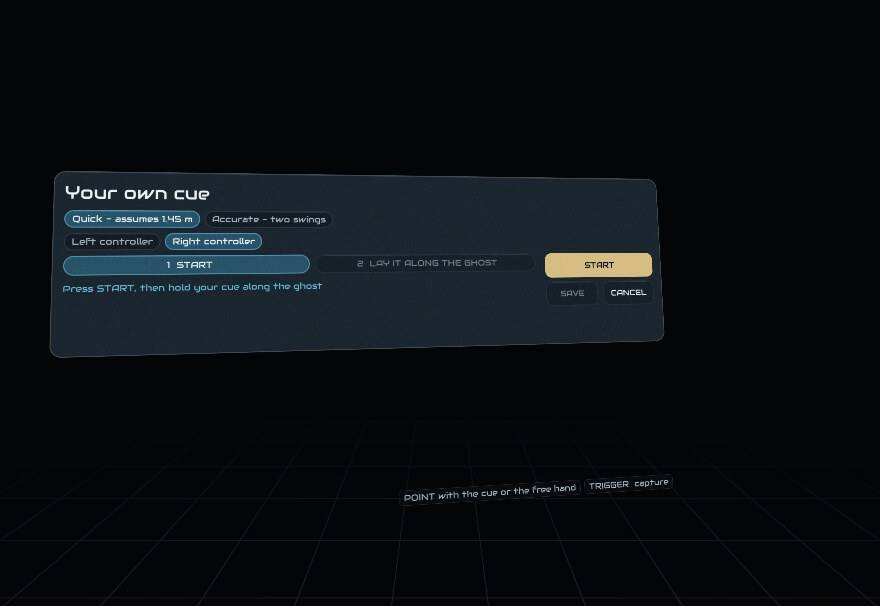
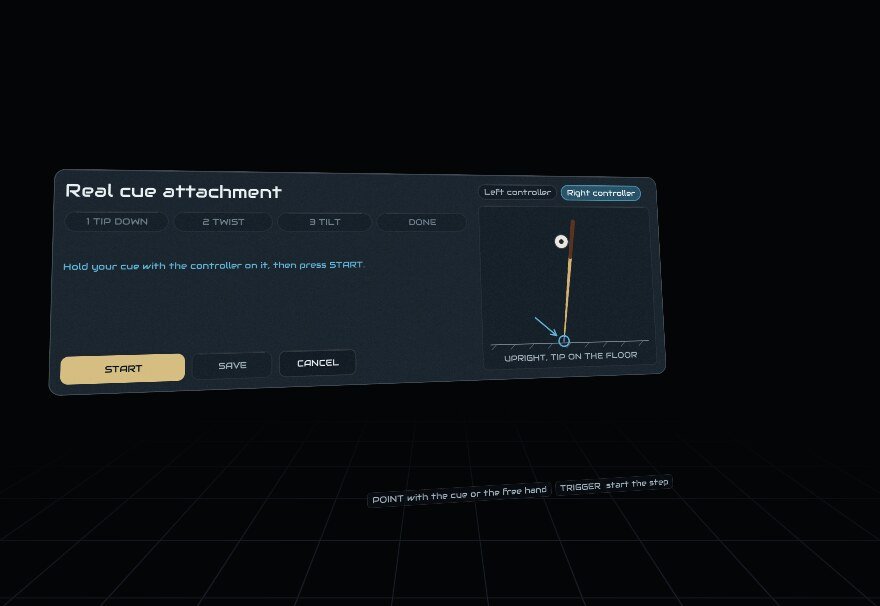
CueVR guide 6.9: Real cue attachment rewritten for the three floor steps (tip down, twist, tilt), with the step cards, dot diagrams, refusals, saved calibrations and the session-only side-trigger fine-tune

diff --git a/docs/cuevr-guide.html b/docs/cuevr-guide.html
@@ -300,8 +300,8 @@
       <a href="#comfort">Comfort</a>.</td></tr>
     <tr><td><b>A match you left</b></td><td><b>CONTINUE MATCH</b> on Home, or <b>SAVED
       MATCHES</b> beside it for the rest. See <a href="#saving">Saving and resuming</a>.</td></tr>
-    <tr><td><b>Play with a real cue or a pen</b></td><td><b>Settings &rarr; Cue feel &rarr;
-      CALIBRATE A REAL CUE</b>, and <b>Settings &rarr; Controls &rarr; CUE</b> to switch between
+    <tr><td><b>Play with a real cue or a pen</b></td><td><b>Settings &rarr; Controls &rarr;
+      CALIBRATE A CUE</b>, and <b>Settings &rarr; Controls &rarr; CUE</b> to switch between
       <b>CONTROLLERS</b> and <b>REAL CUE</b>. See <a href="#realcue">Real cue
       attachment</a>.</td></tr>
     <tr><td><b>Cue deflection</b></td><td><b>Settings &rarr; Cue feel &rarr; CUE DEFLECTION</b>,
@@ -786,126 +786,175 @@
   <ol>
     <li><b>Fix the controller on tight.</b> If it can wobble or twist on the cue, the drawn cue
     wobbles too. If you move it later, you will need to set the cue up again.</li>
-    <li><b>Stand where you play,</b> with your cue in your hands.</li>
-    <li><b>Set the table height first:</b> <b>Environment &rarr; Table</b>, or <b>Table</b> on the
-    pause menu. The set-up is done at that height.</li>
-  </ol>
-
-  <h3>Open the set-up screen</h3>
-  <p>Go to <b>Settings &rarr; Cue feel</b> and press <b>CALIBRATE A REAL CUE</b>, at the bottom of
-  the list. The table disappears while you are on this screen, so nothing is in the way, and
-  you see your own room even if you play in the dark room, the arena or one of the other rooms,
-  so you can see the cue
-  you are lining up. Your surroundings come back when you leave the screen.</p>
-
-  <figure>
-    <img src="img/cuevr/rca-setup.jpg" alt="The cue set-up screen with a grey cue floating in front of the player">
-    <figcaption>The set-up screen. The top row of buttons chooses the method and the second row
-    the controller. Press <b>START</b> and a grey cue appears in front of you, further out than
-    the panel: that is the one you line your own cue up against.</figcaption>
-  </figure>
-
-  <ol>
-    <li><b>Say which controller is on your cue.</b> On the second row, press <b>Left
-    controller</b> or <b>Right controller</b>. Do this first: everything else depends on it.</li>
-    <li><b>Pick a method</b> on the top row:
-      <ul>
-        <li><b>Quick - assumes 1.45 m</b> takes about ten seconds. Use it for a normal full-length
-        cue, about 57 inches (1.45 m) long.</li>
-        <li><b>Accurate - two swings</b> takes about a minute. It measures your cue, so use it if
-        your cue is shorter or longer than that, or if Quick leaves the tip in the wrong
-        place.</li>
-      </ul></li>
-    <li><b>Press START.</b></li>
-  </ol>
-
-  <h3>Quick</h3>
-  <ol>
-    <li>A grey cue floats in front of you. If it is too high or too low to hold your cue against
-    comfortably, push either thumbstick up or down to move it.</li>
-    <li>Hold your real cue along the grey one: your tip on its tip, your butt on its butt. Get it
-    as close as you can by eye.</li>
-    <li>Pull the trigger, the one under your first finger, on either controller.</li>
-    <li>Press <b>SAVE</b>. Your cue is now switched on.</li>
-  </ol>
-  <p>If the tip looks a little out afterwards, do not start again. Use <a href="#finetune">the
-  fine-tune</a> below.</p>
-
-  <h3>Accurate</h3>
-  <p>This way you do not line anything up by eye. You rest one end of the cue on something that
-  does not move, and swing the other end around it. The end that is resting stays still while the
-  controller moves round it, so the game can tell exactly where that end is. It does this for the
-  tip and then for the butt, which also tells it how long your cue is.</p>
-
-  <div class="grid g2">
-    <figure>
-      <svg viewBox="0 0 320 200" width="100%" role="img" aria-label="The tip resting on a table while the butt swings round it">
-        <line x1="16" y1="172" x2="304" y2="172" style="stroke:var(--dim);stroke-width:2"/>
-        <text x="300" y="190" text-anchor="end" style="fill:var(--dim);font-size:11px">a table, a chair seat, the floor</text>
-        <line x1="80" y1="170" x2="252" y2="90" style="stroke:#c9a36a;stroke-width:5;stroke-linecap:round;opacity:.35"/>
-        <line x1="80" y1="170" x2="189" y2="14" style="stroke:#c9a36a;stroke-width:5;stroke-linecap:round;opacity:.35"/>
-        <line x1="80" y1="170" x2="225" y2="48" style="stroke:#c9a36a;stroke-width:6;stroke-linecap:round"/>
-        <rect x="191" y="70" width="22" height="12" rx="3" transform="rotate(-40 202 76)" style="fill:#3a4a39;stroke:var(--ink);stroke-width:1"/>
-        <ellipse cx="225" cy="48" rx="44" ry="15" transform="rotate(-50 225 48)" style="fill:none;stroke:var(--gold);stroke-width:1.5;stroke-dasharray:4 4"/>
-        <circle cx="80" cy="170" r="5" style="fill:var(--gold)"/>
-        <text x="72" y="160" text-anchor="end" style="fill:var(--ink);font-size:12px">tip stays still</text>
-        <text x="274" y="26" style="fill:var(--gold);font-size:12px">swing</text>
-        <text x="274" y="40" style="fill:var(--gold);font-size:12px">the butt</text>
-        <text x="228" y="112" style="fill:var(--dim);font-size:11px">controller</text>
-      </svg>
-      <figcaption><span class="cap-t">STEP ONE</span> &mdash; the tip rests on something firm and
-      stays there. The butt swings round it: left and right, and up and down.</figcaption>
-    </figure>
-    <figure>
-      <svg viewBox="0 0 320 200" width="100%" role="img" aria-label="The butt resting on a table while the tip swings round it">
-        <line x1="16" y1="172" x2="304" y2="172" style="stroke:var(--dim);stroke-width:2"/>
-        <line x1="240" y1="170" x2="68" y2="90" style="stroke:#c9a36a;stroke-width:5;stroke-linecap:round;opacity:.35"/>
-        <line x1="240" y1="170" x2="131" y2="14" style="stroke:#c9a36a;stroke-width:5;stroke-linecap:round;opacity:.35"/>
-        <line x1="240" y1="170" x2="95" y2="48" style="stroke:#c9a36a;stroke-width:6;stroke-linecap:round"/>
-        <rect x="200" y="126" width="22" height="12" rx="3" transform="rotate(40 211 132)" style="fill:#3a4a39;stroke:var(--ink);stroke-width:1"/>
-        <ellipse cx="95" cy="48" rx="44" ry="15" transform="rotate(50 95 48)" style="fill:none;stroke:var(--gold);stroke-width:1.5;stroke-dasharray:4 4"/>
-        <circle cx="240" cy="170" r="5" style="fill:var(--gold)"/>
-        <text x="248" y="160" style="fill:var(--ink);font-size:12px">butt stays still</text>
-        <text x="16" y="26" style="fill:var(--gold);font-size:12px">swing</text>
-        <text x="16" y="40" style="fill:var(--gold);font-size:12px">the tip</text>
-        <text x="236" y="120" style="fill:var(--dim);font-size:11px">controller</text>
-      </svg>
-      <figcaption><span class="cap-t">STEP TWO</span> &mdash; turn the cue round. The butt rests
-      and stays there; the tip swings round it in the same way.</figcaption>
-    </figure>
-  </div>
-
-  <ol>
-    <li>Press <b>START</b>. The screen says <b>Tip on something solid, then pull the
-    trigger</b>.</li>
-    <li>Rest the tip on something firm that will not slide: a table top, the seat of a chair, the
-    floor. Hold the butt the way you hold it when you play, not twisted round in your hand: this
-    is how the game learns which way up your cue is. Then pull the trigger. Nothing is measured
-    until you do, so take your time getting settled.</li>
-    <li>Keep the tip exactly where it is, and slowly swing the butt round it: left and right, and up
-    and down as well, as if you were stirring a big pot with the butt. Two bars on the screen,
-    <b>ACROSS</b> and <b>UP AND DOWN</b>, fill up as you go. Keep going until both are full.</li>
-    <li>A small marker shows where the game thinks your tip is. If it sits on your tip and stays
-    there while you swing, it is right. The screen says <b>Tip found - trigger to go on</b>. Pull
-    the trigger.</li>
-    <li>Now turn the cue round. Rest the <b>butt</b> on something firm, pull the trigger, and swing
-    the tip round it in the same way until both bars are full.</li>
-    <li>The screen says <b>Measured - trigger to finish</b>. Pull the trigger. It then shows the
-    length it measured, for example <b>1.45 m of cue</b>. If that is about the length of your cue,
-    it worked. If it is clearly wrong, 0.4 m say, the resting end moved: press <b>START AGAIN</b>.</li>
-    <li>Press <b>SAVE</b>. Your cue is now switched on.</li>
+    <li><b>Find a clear spot of floor</b> in front of you, with room to tilt the cue about a
+    foot either way. A rug or a mat stops the tip sliding.</li>
   </ol>
 
   <div class="note">
-    <b>Keep the resting end still.</b> If it slides even a little while you swing, the measurement
-    is spoiled. Rest it on something grippy, like a rubber mat or a towel on the floor, and swing
-    slowly.
+    <b>Standard controllers: keep the controller where the headset can see it.</b> The Quest's
+    standard controllers are tracked by the headset's cameras. If your hand, the cue or your body
+    hides the controller, the headset loses it and guesses, and the set-up has to start again.
+    Hold the cue out in front of you at arm's length all the way through. Pro controllers track
+    themselves and are not affected.
   </div>
 
+  <h3>Open the set-up screen</h3>
+  <p>Go to <b>Settings &rarr; Controls</b> and press <b>CALIBRATE A CUE</b> (it says
+  <b>CALIBRATE AGAIN</b> once a cue is set up). The table disappears while you are on this
+  screen, and you see your own room, so you can see your cue.</p>
+
+  <figure>
+    <img src="img/cuevr/rca-setup.jpg" alt="The Real cue attachment screen: a row of steps, the controller choice, and START">
+    <figcaption>The set-up screen. Top right, choose the controller that is on your cue. The row
+    underneath the title shows the three steps; the picture on the right shows what to do.</figcaption>
+  </figure>
+
+  <ol>
+    <li><b>Say which controller is on your cue:</b> press <b>Left controller</b> or <b>Right
+    controller</b>, top right.</li>
+    <li><b>Press START.</b></li>
+  </ol>
+
+  <p>From here on you do not need to look at the big screen, or press anything except the one
+  trigger pull in step 1. The big screen goes away and a small card appears just above the
+  controller on your cue, where you are already looking. It names the step, says what to do, and
+  has a bar that fills as you go.</p>
+
+  <ul>
+    <li><b>Each step ends by itself.</b> As it fills you hear soft ticks that rise in pitch. When
+    it is done you hear a chime, the controller buzzes, and the card flashes green with
+    <b>DONE</b> and the next step.</li>
+    <li><b>Dots round your cue show the progress</b> as well, so you can keep your eyes on the
+    cue. They start grey and turn blue as they fill.</li>
+    <li><b>To give up, press B</b> (or X or Y). You go back to the set-up screen and the cue you
+    had before is kept, unchanged.</li>
+  </ul>
+
+  <h3>Step 1 &mdash; cue upright, tip down</h3>
+  <figure>
+    <img src="img/cuevr/rca-card-tip.png" alt="The card: STEP 1 OF 3, CUE UPRIGHT, TIP DOWN">
+  </figure>
+  <ol>
+    <li>Stand the cue upright with its tip on the floor in front of you, held out so you can see
+    the controller.</li>
+    <li>Hold it the way round you play with it, not twisted round in your hand. This is how the
+    game learns which way up your cue is.</li>
+    <li>Pull either trigger, the one under your first finger. The tip now stays on that spot for
+    steps 2 and 3.</li>
+  </ol>
+
+  <h3>Step 2 &mdash; twist the cue</h3>
+  <div class="grid g2">
+    <figure>
+      <svg viewBox="0 0 320 230" width="100%" role="img" aria-label="An upright cue with a ring of dots round it at the controller, half blue, and a line of dots down its middle to the floor">
+        <line x1="16" y1="212" x2="304" y2="212" style="stroke:var(--dim);stroke-width:2"/>
+        <g id="ring"><circle cx="112.0" cy="66.3" r="3.5" style="fill:#5aa9e6"/><circle cx="123.2" cy="61.4" r="3.5" style="fill:#98a693;opacity:.45"/><circle cx="140.1" cy="58.1" r="3.5" style="fill:#98a693;opacity:.45"/><circle cx="160.0" cy="57.0" r="3.5" style="fill:#98a693;opacity:.45"/><circle cx="179.9" cy="58.1" r="3.5" style="fill:#98a693;opacity:.45"/><circle cx="196.8" cy="61.4" r="3.5" style="fill:#98a693;opacity:.45"/><circle cx="208.0" cy="66.3" r="3.5" style="fill:#98a693;opacity:.45"/></g><line x1="160" y1="210" x2="160" y2="14" style="stroke:#c9a36a;stroke-width:6;stroke-linecap:round"/><rect x="149" y="54" width="22" height="30" rx="4" style="fill:#3a4a39;stroke:var(--ink);stroke-width:1"/><circle cx="212.0" cy="72.0" r="3.5" style="fill:#5aa9e6"/><circle cx="208.0" cy="77.7" r="4.5" style="fill:#5aa9e6"/><circle cx="196.8" cy="82.6" r="4.5" style="fill:#5aa9e6"/><circle cx="179.9" cy="85.9" r="4.5" style="fill:#5aa9e6"/><circle cx="160.0" cy="87.0" r="4.5" style="fill:#5aa9e6"/><circle cx="140.1" cy="85.9" r="4.5" style="fill:#5aa9e6"/><circle cx="123.2" cy="82.6" r="4.5" style="fill:#5aa9e6"/><circle cx="112.0" cy="77.7" r="4.5" style="fill:#5aa9e6"/><circle cx="108.0" cy="72.0" r="3.5" style="fill:#5aa9e6"/><circle cx="160" cy="100" r="2.5" style="fill:#5aa9e6"/><circle cx="160" cy="120" r="2.5" style="fill:#5aa9e6"/><circle cx="160" cy="140" r="2.5" style="fill:#5aa9e6"/><circle cx="160" cy="160" r="2.5" style="fill:#98a693;opacity:.45"/><circle cx="160" cy="180" r="2.5" style="fill:#98a693;opacity:.45"/><path d="M100 40 Q160 20 220 40" style="stroke:var(--gold);stroke-width:1.8;fill:none"/><path d="M212 33 L221 41 L209 43" style="stroke:var(--gold);stroke-width:1.8;fill:none"/><path d="M108 33 L99 41 L111 43" style="stroke:var(--gold);stroke-width:1.8;fill:none"/><text x="232" y="30" style="fill:var(--gold);font-size:12px">twist one way,</text><text x="232" y="44" style="fill:var(--gold);font-size:12px">then the other</text>
+        <circle cx="160" cy="210" r="5" style="fill:var(--gold)"/>
+        <text x="172" y="206" style="fill:var(--ink);font-size:12px">tip stays on its spot</text>
+      </svg>
+      <figcaption>What you see round your cue: a ring of dots at the controller that fills as you
+      twist, and a line of dots down the middle of the cue to the floor.</figcaption>
+    </figure>
+    <figure>
+      <img src="img/cuevr/rca-card-twist.png" alt="The card: STEP 2 OF 3, TWIST THE CUE, tip still until the ring is full, with its bar part filled">
+      <figcaption>The card for step 2, part way through.</figcaption>
+    </figure>
+  </div>
+  <ol>
+    <li>Keep the tip on its spot and turn the cue in your fingers, about half a turn one way, then
+    half a turn the other way, back and forth.</li>
+    <li>Keep going until the ring is full. It takes about four half turns, five seconds or so.</li>
+  </ol>
+  <p>The dotted line shows where the game thinks the middle of your cue is. When it runs down the
+  middle of your real cue to the tip, it has found it.</p>
+
+  <h3>Step 3 &mdash; tilt it back and forth</h3>
+  <div class="grid g2">
+    <figure>
+      <svg viewBox="0 0 320 230" width="100%" role="img" aria-label="An upright cue tilted to each side, with an arc of dots at the butt, one side blue">
+        <line x1="16" y1="212" x2="304" y2="212" style="stroke:var(--dim);stroke-width:2"/>
+        <line x1="160" y1="210" x2="112" y2="34" style="stroke:#c9a36a;stroke-width:5;stroke-linecap:round;opacity:.3"/>
+        <line x1="160" y1="210" x2="208" y2="34" style="stroke:#c9a36a;stroke-width:5;stroke-linecap:round;opacity:.3"/>
+        <line x1="160" y1="210" x2="160" y2="28" style="stroke:#c9a36a;stroke-width:6;stroke-linecap:round"/>
+        <rect x="149" y="62" width="22" height="30" rx="4" style="fill:#3a4a39;stroke:var(--ink);stroke-width:1"/>
+        <circle cx="160" cy="28" r="4" style="fill:#5aa9e6"/>
+        <circle cx="172" cy="28.4" r="4" style="fill:#5aa9e6"/><circle cx="184" cy="29.6" r="4" style="fill:#5aa9e6"/>
+        <circle cx="196" cy="31.6" r="4" style="fill:#5aa9e6"/><circle cx="208" cy="34.4" r="6" style="fill:#5aa9e6"/>
+        <circle cx="148" cy="28.4" r="4" style="fill:#5aa9e6"/><circle cx="136" cy="29.6" r="4" style="fill:#98a693;opacity:.45"/>
+        <circle cx="124" cy="31.6" r="4" style="fill:#98a693;opacity:.45"/><circle cx="112" cy="34.4" r="6" style="fill:#98a693;opacity:.45"/>
+        <text x="226" y="40" style="fill:var(--gold);font-size:12px">this end reached</text>
+        <text x="10" y="58" style="fill:var(--dim);font-size:12px">this end still to go</text>
+        <circle cx="160" cy="210" r="5" style="fill:var(--gold)"/>
+        <text x="172" y="206" style="fill:var(--ink);font-size:12px">tip stays on its spot</text>
+      </svg>
+      <figcaption>An arc of dots at the butt, like a seesaw. Each half fills as you tilt the butt
+      out that way; the big dot at each end is how far to go.</figcaption>
+    </figure>
+    <figure>
+      <img src="img/cuevr/rca-card-tilt.png" alt="The card: STEP 3 OF 3, TILT IT BACK AND FORTH, with its bar part filled">
+      <figcaption>The card for step 3, one end done.</figcaption>
+    </figure>
+  </div>
+  <ol>
+    <li>Keep the tip on its spot and tilt the butt back and forth, whichever way is comfortable:
+    away from you and back, or side to side. The arc starts out side to side and turns to follow
+    the way you are tilting.</li>
+    <li>Go about 25 cm, ten inches, out at the butt each way, until both ends of the arc are
+    full.</li>
+  </ol>
+
+  <h3>When it is done</h3>
+  <figure>
+    <img src="img/cuevr/rca-done.jpg" alt="The set-up screen after calibrating: CALIBRATION COMPLETED, with SAVE, tip length, cue rotation and saved calibrations">
+    <figcaption>Finished. Check it, then press <b>SAVE</b>. Underneath are the small adjustments
+    and your saved calibrations.</figcaption>
+  </figure>
+  <ol>
+    <li>The card says <b>CALIBRATION COMPLETED</b> and the set-up screen comes back.</li>
+    <li><b>Check it:</b> turn your cue in your hand. The virtual cue should turn with the real one
+    and stay on it all the way round. If it swings away from your cue as you turn it, press
+    <b>START AGAIN</b>.</li>
+    <li><b>Press SAVE.</b> Your cue is now switched on.</li>
+  </ol>
+
+  <h3>If it sends you back</h3>
+  <p>The card turns orange and says why. It only does this when a step clearly did not work.</p>
+  <figure>
+    <img src="img/cuevr/rca-card-refused.png" alt="The card back at step 1 saying THE TIP MOVED - PUT IT DOWN AGAIN in orange">
+  </figure>
+  <table>
+    <tr><th>The card says</th><th>What happened, and what to do</th></tr>
+    <tr><td><b>THE TIP MOVED - PUT IT DOWN AGAIN</b></td><td>The tip slid or lifted during step 2
+      or 3. Put it down again, on something grippy, and pull the trigger.</td></tr>
+    <tr><td><b>LOST THE CONTROLLER - KEEP IT IN VIEW</b></td><td>The headset could not see the
+      controller for too long. Hold the cue further out in front of you, and keep your hand off
+      the front of the controller.</td></tr>
+    <tr><td><b>TOO MUCH WOBBLE - AGAIN, SLOWER</b></td><td>The cue leaned about too much while you
+      twisted it. You go back to step 2 with the tip still down: twist again, more slowly, keeping
+      the cue upright.</td></tr>
+  </table>
+
+  <h3>Saved calibrations</h3>
+  <p>If you use more than one cue, or more than one clamp, you can keep a calibration for each and
+  switch between them without setting up again.</p>
+  <figure>
+    <img src="img/cuevr/rca-saveas.jpg" alt="Save this calibration as: a name field, SAVE and CANCEL, and a keyboard">
+    <figcaption><b>SAVE AS...</b> asks for a name, typed on this keyboard.</figcaption>
+  </figure>
+  <ul>
+    <li><b>SAVE AS...</b>, on the finished screen under <b>SAVED CALIBRATIONS</b>, keeps the
+    calibration you have just made under a name, for example the name of the cue.</li>
+    <li><b>LOAD</b> beside a saved one puts it back in use. Press <b>SAVE</b> to keep it.</li>
+    <li><b>DELETE</b> removes it.</li>
+  </ul>
+
   <h3 id="finetune">Fine-tuning it with the side trigger</h3>
-  <p>Neither method is perfect first time. This puts it right, and you can do it whenever you
-  like, even at the table in the middle of a frame. The side trigger is the grip button on the side
-  of the controller, under your middle finger.</p>
+  <p>A calibration is fixed to the controller and does not wear out. What does drift is the
+  headset's own tracking: over a session it can come to see the controller a few millimetres or a
+  fraction of a degree from where it really is, and then the whole cue sits a little off. This
+  puts that right, and you can do it whenever you like, even at the table in the middle of a
+  frame. The side trigger is the grip button on the side of the controller, under your middle
+  finger.</p>
 
   <figure>
     <svg viewBox="0 0 320 150" width="100%" style="max-width:460px;display:block" role="img" aria-label="Seen from above: the real cue slid across the table until it lies under the frozen drawn cue">
@@ -932,41 +981,39 @@
     rests on that button all through a game, and the tap tells the game you mean it.</li>
     <li><b>Keep holding, and slide your real cue</b> until it lies exactly under the drawn one: tip
     under tip, shaft under shaft.</li>
-    <li><b>If CUE TURNS WITH YOUR WRIST is on,</b> also roll your real cue until its markings, the
-    points and the badge, line up with the drawn cue's.</li>
     <li><b>Let go of the side trigger.</b> The drawn cue now follows your real cue from where you
-    put it. It saves itself; there is nothing else to press.</li>
+    put it.</li>
   </ol>
-  <p>Do it as often as you like. Each time replaces the last, so small errors cannot build up.</p>
+  <ul>
+    <li><b>It moves the whole cue, not your calibration,</b> so it cannot make the cue swing about
+    when you turn it in your hand. Do it as often as you like: each one adds to the last.</li>
+    <li><b>It lasts until you quit the game.</b> Next time you start, you begin from your
+    calibration as it was measured.</li>
+    <li><b>To undo it, double tap the side trigger.</b> The cue goes back to your calibration as
+    measured. <b>RESET NUDGE</b> on the set-up screen does the same, and the line beside it says
+    how far you have nudged.</li>
+    <li><b>If nudging does not fix it,</b> or you have moved the clamp, calibrate again. It takes
+    about twenty seconds.</li>
+  </ul>
 
   <div class="note">
     <b>Where it works.</b> On the set-up screen, and at the table during a frame, on your turn or
     your opponent's. It does not work in the menus, where the side trigger does other jobs.
   </div>
 
-  <h3>Small corrections by button</h3>
-  <p>Open <b>CALIBRATE A REAL CUE</b> again when your cue is already set up, and it opens on your
-  saved set-up with buttons for small corrections. Point at a <b>&minus;</b> or <b>+</b> with your
-  other hand and pull its trigger. Each press moves the cue by a tiny amount, and you can watch the
-  drawn cue move against your real one.</p>
+  <h3>Small adjustments on the set-up screen</h3>
+  <p>Open the set-up screen when your cue is already set up, and it opens on your calibration with
+  two adjustments under it. Point at a <b>&minus;</b> or <b>+</b> with your other hand and pull
+  its trigger.</p>
   <table>
-    <tr><th>Button</th><th>What each press does</th></tr>
-    <tr><td><b>Tip out</b></td><td>Moves the tip further along the cue or back, 1 mm.</td></tr>
-    <tr><td><b>Tip sideways</b></td><td>Moves the tip left or right, 1 mm.</td></tr>
-    <tr><td><b>Tip up</b></td><td>Moves the tip up or down, 1 mm.</td></tr>
-    <tr><td><b>Aim sideways</b></td><td>Turns the whole cue left or right, a tenth of a
-      degree.</td></tr>
-    <tr><td><b>Aim up</b></td><td>Tilts the whole cue up or down, a tenth of a degree.</td></tr>
-    <tr><td><b>Cue rotation</b></td><td>Turns the drawn cue round its own length, a degree, so
-      its points and badge face the same way as your real cue's. The <b>CUE ROTATION</b> slider
-      beside the buttons turns it further in one go.</td></tr>
+    <tr><th>Row</th><th>What each press does</th></tr>
+    <tr><td><b>Tip length</b></td><td>How far the tip is from the controller, 1 mm a press. Use it
+      if the drawn tip ends short of your real tip, or past it.</td></tr>
+    <tr><td><b>Cue rotation</b></td><td>Turns the drawn cue round its own length, a degree a press,
+      so its points and badge face the same way as your real cue's. It only turns the picture of
+      the cue: your aim and your tip do not move.</td></tr>
   </table>
-  <p>Every press saves straight away. Press <b>SAVE</b> when you are done. <b>START AGAIN</b> throws
-  the set-up away and starts from nothing.</p>
-
-  <p>Controllers drift a little over a session and clamps get knocked. Put it right with the side
-  trigger at the table; you only need to set up from the start again if you change cue or move the
-  controller.</p>
+  <p>Every press saves straight away.</p>
 
   <h3 id="onestick">One stick has to do everything</h3>
   <p class="lede">A controller clamped to a cue is on the end of a metre and a half of timber. The
@@ -1012,9 +1059,10 @@
         <td>Holds the drawn cue still so you can line your real one up on it. It does nothing else
         while you are at the table, so it can never be doing the wrong job when you reach for
         it.</td></tr>
-    <tr><td><b>Lining up the cue</b><br>(CALIBRATE A REAL CUE)</td>
-        <td>Raises and lowers the grey cue you are matching.</td>
-        <td>Holds the drawn cue still. Let go and it re-learns your cue and saves it.</td></tr>
+    <tr><td><b>Setting up the cue</b><br>(CALIBRATE A CUE)</td>
+        <td>Nothing: the three steps need no stick.</td>
+        <td>The fine-tune, as at the table: holds the drawn cue still, and moves it onto your real
+        one when you let go.</td></tr>
   </table>
 
   <h3>The buttons a clamped hand cannot reach</h3>
@@ -4727,8 +4775,12 @@
   var ALIAS = {
     'balls':            'change balls ball set colour numbered stripes spots swap',
     'real cue attachment': 'real cue your own cue physical stick pen mx ink calibrate attach setup',
-    'setting it up, step by step': 'calibrate real cue align ghost walkthrough how to set up attach clamp',
-    'fine-tuning it — tap the side trigger, then hold it': 'align alignment side trigger adjust nudge drift ghost cue',
+    'open the set-up screen': 'calibrate calibration real cue walkthrough how to set up attach clamp controller',
+    'step 2 — twist the cue': 'calibrate twist roll turn ring dots',
+    'step 3 — tilt it back and forth': 'calibrate tilt swing butt seesaw arc dots',
+    'if it sends you back': 'calibration failed tip moved lost controller wobble refused error',
+    'saved calibrations': 'save load delete name keep calibration second cue clamp',
+    'fine-tuning it with the side trigger': 'align alignment side trigger adjust nudge drift offset reset double tap',
     'one stick has to do everything': 'real cue attachment rca one stick single controller free hand side trigger clamped',
     'the buttons a clamped hand cannot reach': 'thumbstick press menu row mark undo take back real cue',
     'controls':         'settings buttons remap sticks options configure',
